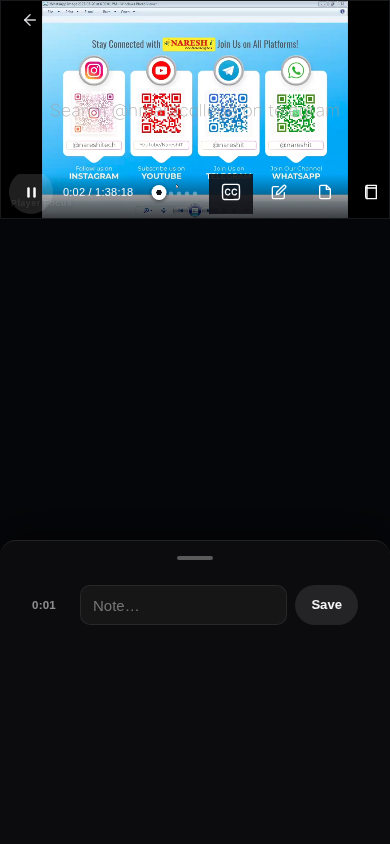
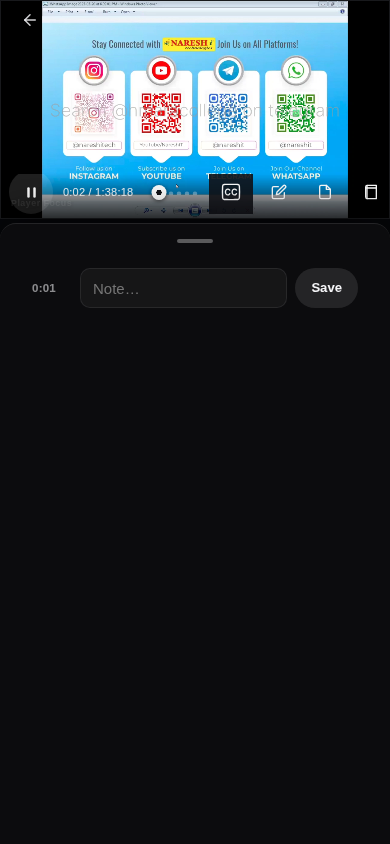
Fill the phone study sheet under the pinned video band.
Removes the dead black gap between the 16:9 watch frame and notes/files.

diff --git a/web/src/styles/pages/apple-craft.css b/web/src/styles/pages/apple-craft.css
@@ -1641,7 +1641,7 @@ html[data-theme='light'] body.home-cinema.home-cinema-scrolled .site-header.lms-
     height: auto !important;
     aspect-ratio: 16 / 9 !important;
     flex: 0 0 auto !important;
-    max-height: calc(100dvh - min(36dvh, 320px)) !important;
+    max-height: min(100vw * 9 / 16, 56dvh) !important;
   }
 
   #classroom.focus-workspace #media-controller,
@@ -1786,8 +1786,9 @@ html[data-theme='light'] body.home-cinema.home-cinema-scrolled .site-header.lms-
     inset-inline: 0 !important;
     width: 100vw !important;
     max-width: 100vw !important;
-    height: min(36dvh, 320px) !important;
-    max-height: min(36dvh, 320px) !important;
+    /* Fill everything under the pinned 16:9 band — no dead black gap */
+    height: calc(100dvh - min(100vw * 9 / 16, 56dvh) - 4px) !important;
+    max-height: calc(100dvh - min(100vw * 9 / 16, 56dvh) - 4px) !important;
     min-height: 0 !important;
     flex: none !important;
     flex-basis: auto !important;
@@ -2047,8 +2048,8 @@ html[data-theme='light'] body.home-cinema.home-cinema-scrolled .site-header.lms-
     inset-inline: 0 !important;
     width: 100vw !important;
     max-width: 100vw !important;
-    height: min(36dvh, 320px) !important;
-    max-height: min(36dvh, 320px) !important;
+    height: calc(100dvh - min(100vw * 9 / 16, 56dvh) - 4px) !important;
+    max-height: calc(100dvh - min(100vw * 9 / 16, 56dvh) - 4px) !important;
     min-height: 0 !important;
     margin: 0 !important;
     transform: translateY(0) !important;
